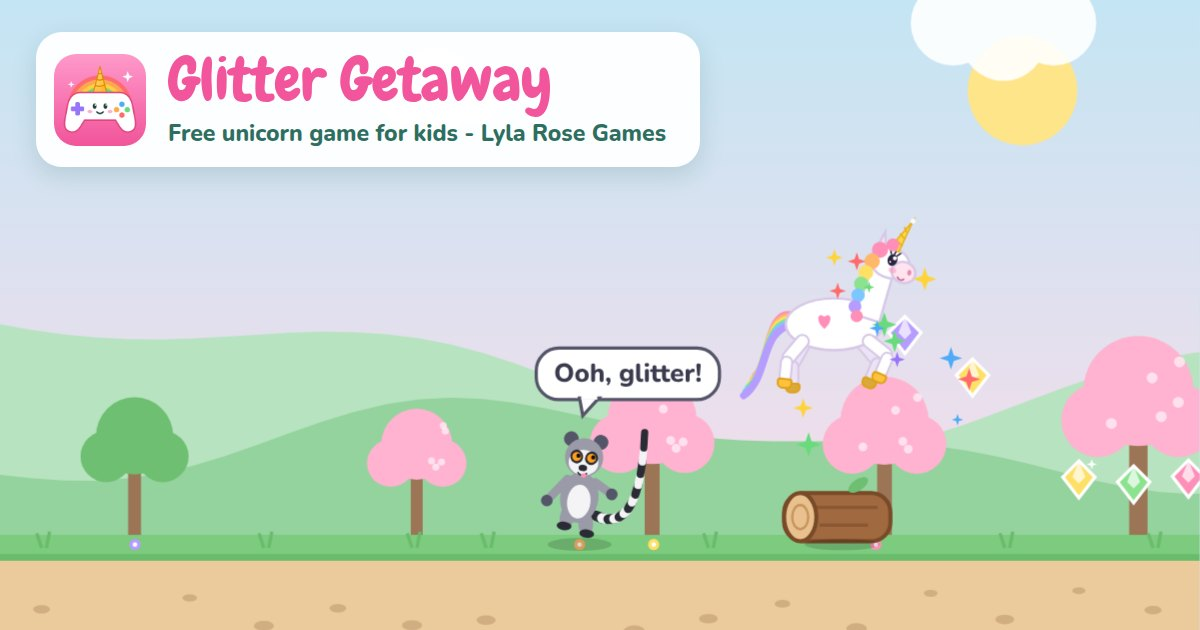
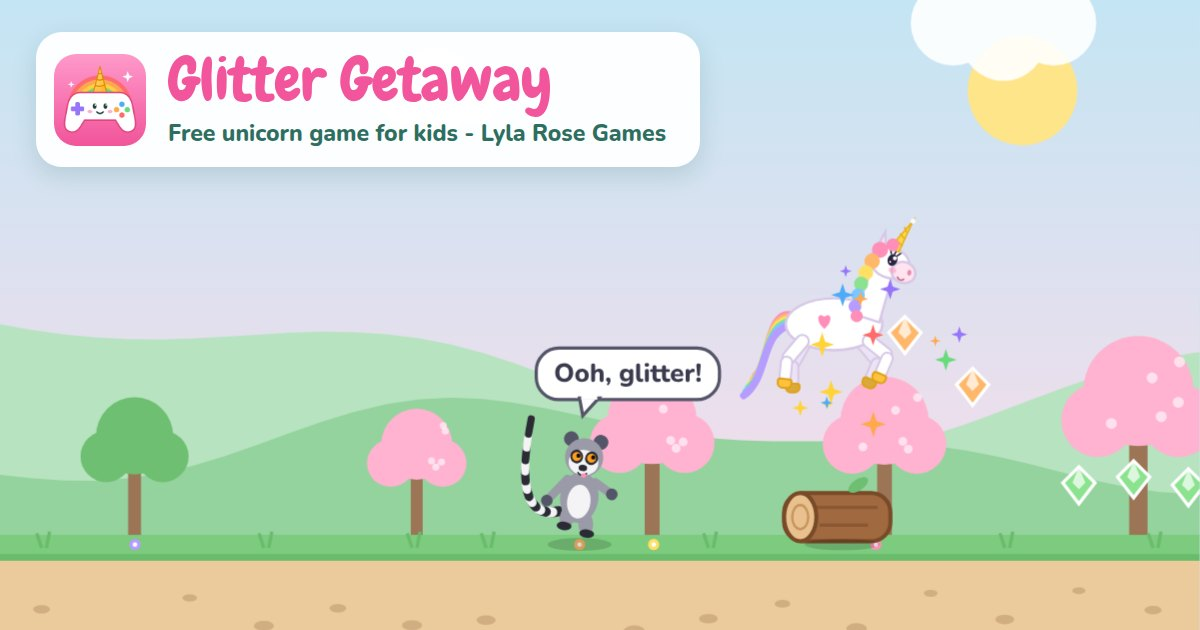
tail

diff --git a/games/glitter-getaway/index.html b/games/glitter-getaway/index.html
@@ -182,7 +182,7 @@
         <h2 id="ovTitle">Glitter Getaway!</h2>
         <div class="stars" id="ovStars" hidden aria-hidden="true"><span>★</span><span>★</span><span>★</span></div>
         <p id="ovBig" class="big" hidden></p>
-        <p id="ovText">Starlight is galloping to the rainbow bridge, but cheeky Lenny the Lemur wants her glitter! Tap, or press Space or ↑, to jump. Hold for a bigger jump. You have 3 hearts - if Lenny catches you 3 times, it's game over!</p>
+        <p id="ovText">Starlight is galloping to the rainbow bridge, but cheeky Lenny the Lemur wants her glitter! Tap, or press Space or ↑, to jump. Hold for a bigger jump. You have 3 hearts for the whole game - if Lenny catches you 3 times, it's game over!</p>
         <button id="ovBtn">Let's gallop!</button>
         <button id="ovBtn2" class="ghost" hidden>Start again from level 1</button>
       </div>
@@ -194,7 +194,7 @@
     <button class="ghost" id="pause" aria-label="Pause">⏸</button>
     <button class="ghost" id="music" aria-label="Music on">🎵 On</button>
     <button class="ghost" id="sound" aria-label="Sound on">🔊</button>
-    <p class="help">Tap anywhere, or press Space or the up arrow, to jump. Hold it down for a higher jump. Grab the rainbow star for a super-fast rainbow dash! You have 3 hearts, and each rainbow bridge gives one back.</p>
+    <p class="help">Tap anywhere, or press Space or the up arrow, to jump. Hold it down for a higher jump. Grab the rainbow star for a super-fast rainbow dash! You have 3 hearts for the whole game - look after them!</p>
   </div>
 </div>
 
@@ -477,9 +477,7 @@
     ovBig.hidden = false;
     ovBig.textContent = '✨ You kept ' + kept + ' of ' + L.total + ' glitter';
     const tips = stars === 3 ? 'Super sparkly! Three stars!' : stars === 2 ? 'Lovely galloping! Grab even more glitter for three stars.' : 'Safe across! Jump for the glitter to win more stars.';
-    let heartBack = '';
-    if(lives < 3){ lives++; heartBack = ' Crossing the rainbow gave you a heart back! ❤'; }
-    ovText.textContent = tips + heartBack + (bestShown ? ' 🏆 New best: ' + best + '!' : '') + ' Next time Lenny is a bit speedier...';
+    ovText.textContent = tips + (bestShown ? ' 🏆 New best: ' + best + '!' : '') + ' Next time Lenny is a bit speedier...';
     ovBtn.textContent = 'Next level ➜';
     ovBtn.focus({preventScroll:true});
   }
@@ -1170,12 +1168,12 @@
     ctx.translate(x, feet - 39*k - bob); ctx.rotate(lenny.ang + (running ? 0.12 : 0)); ctx.scale(k, k);
     const grey = '#9A9AA8', dark = '#55556A';
 
-    // stripy tail
+    // stripy tail (trailing out behind him)
     const sway = reduced ? 0 : Math.sin(t*2.2)*14;
     const pts = [];
     for(let i = 0; i <= 14; i++){
       const u = i/14;
-      const bx = (1-u)*(1-u)*10 + 2*(1-u)*u*62 + u*u*(44 + sway);
+      const bx = -((1-u)*(1-u)*10 + 2*(1-u)*u*62 + u*u*(44 + sway));   // negative = behind him, as he chases to the right
       const by = (1-u)*(1-u)*14 + 2*(1-u)*u*40 + u*u*(-66);
       pts.push([bx, by]);
     }
